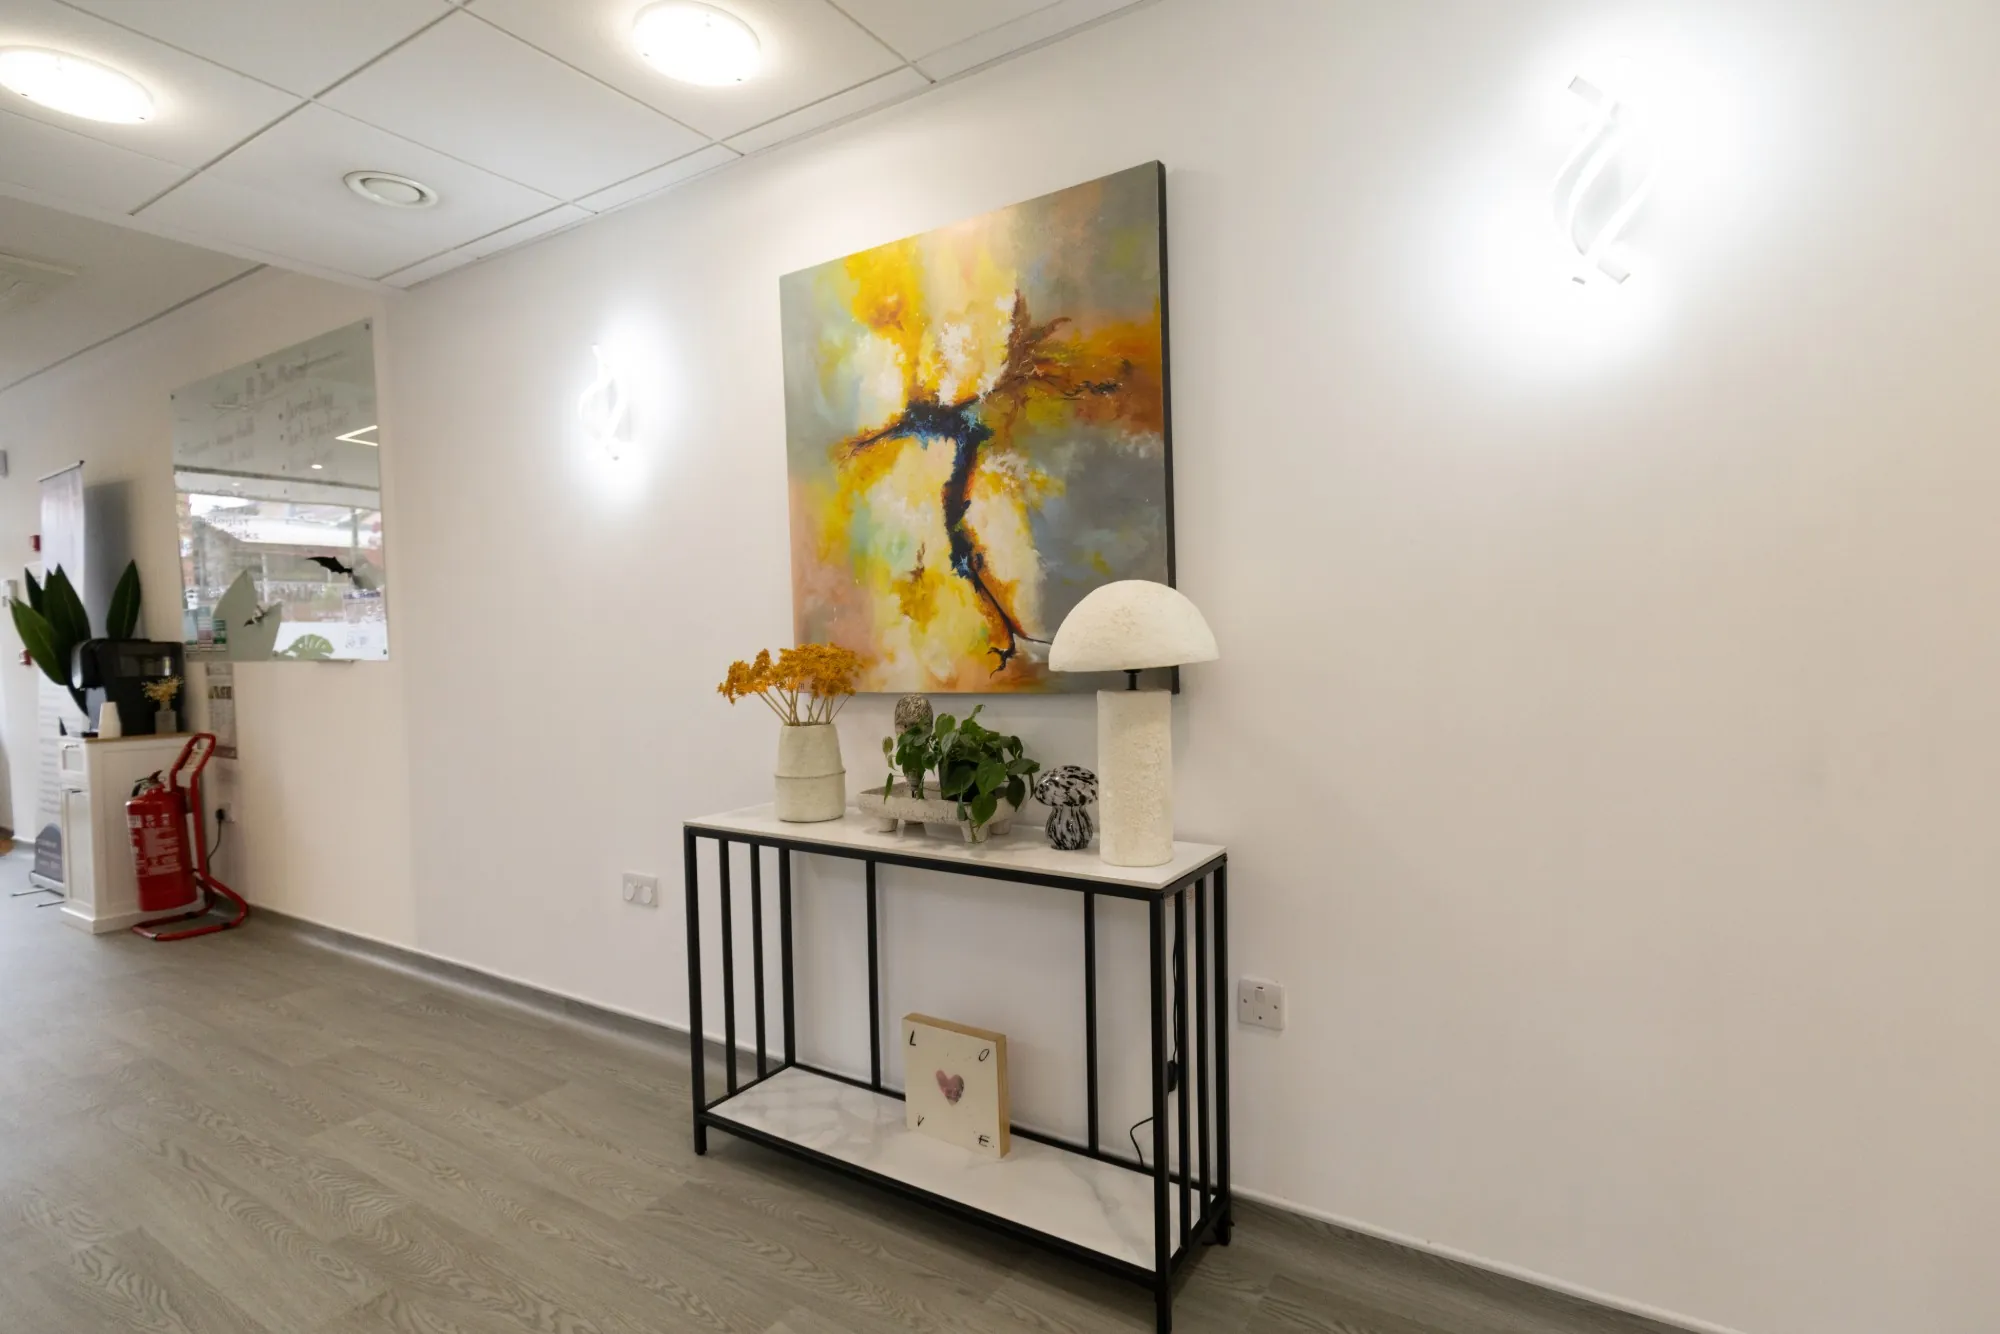
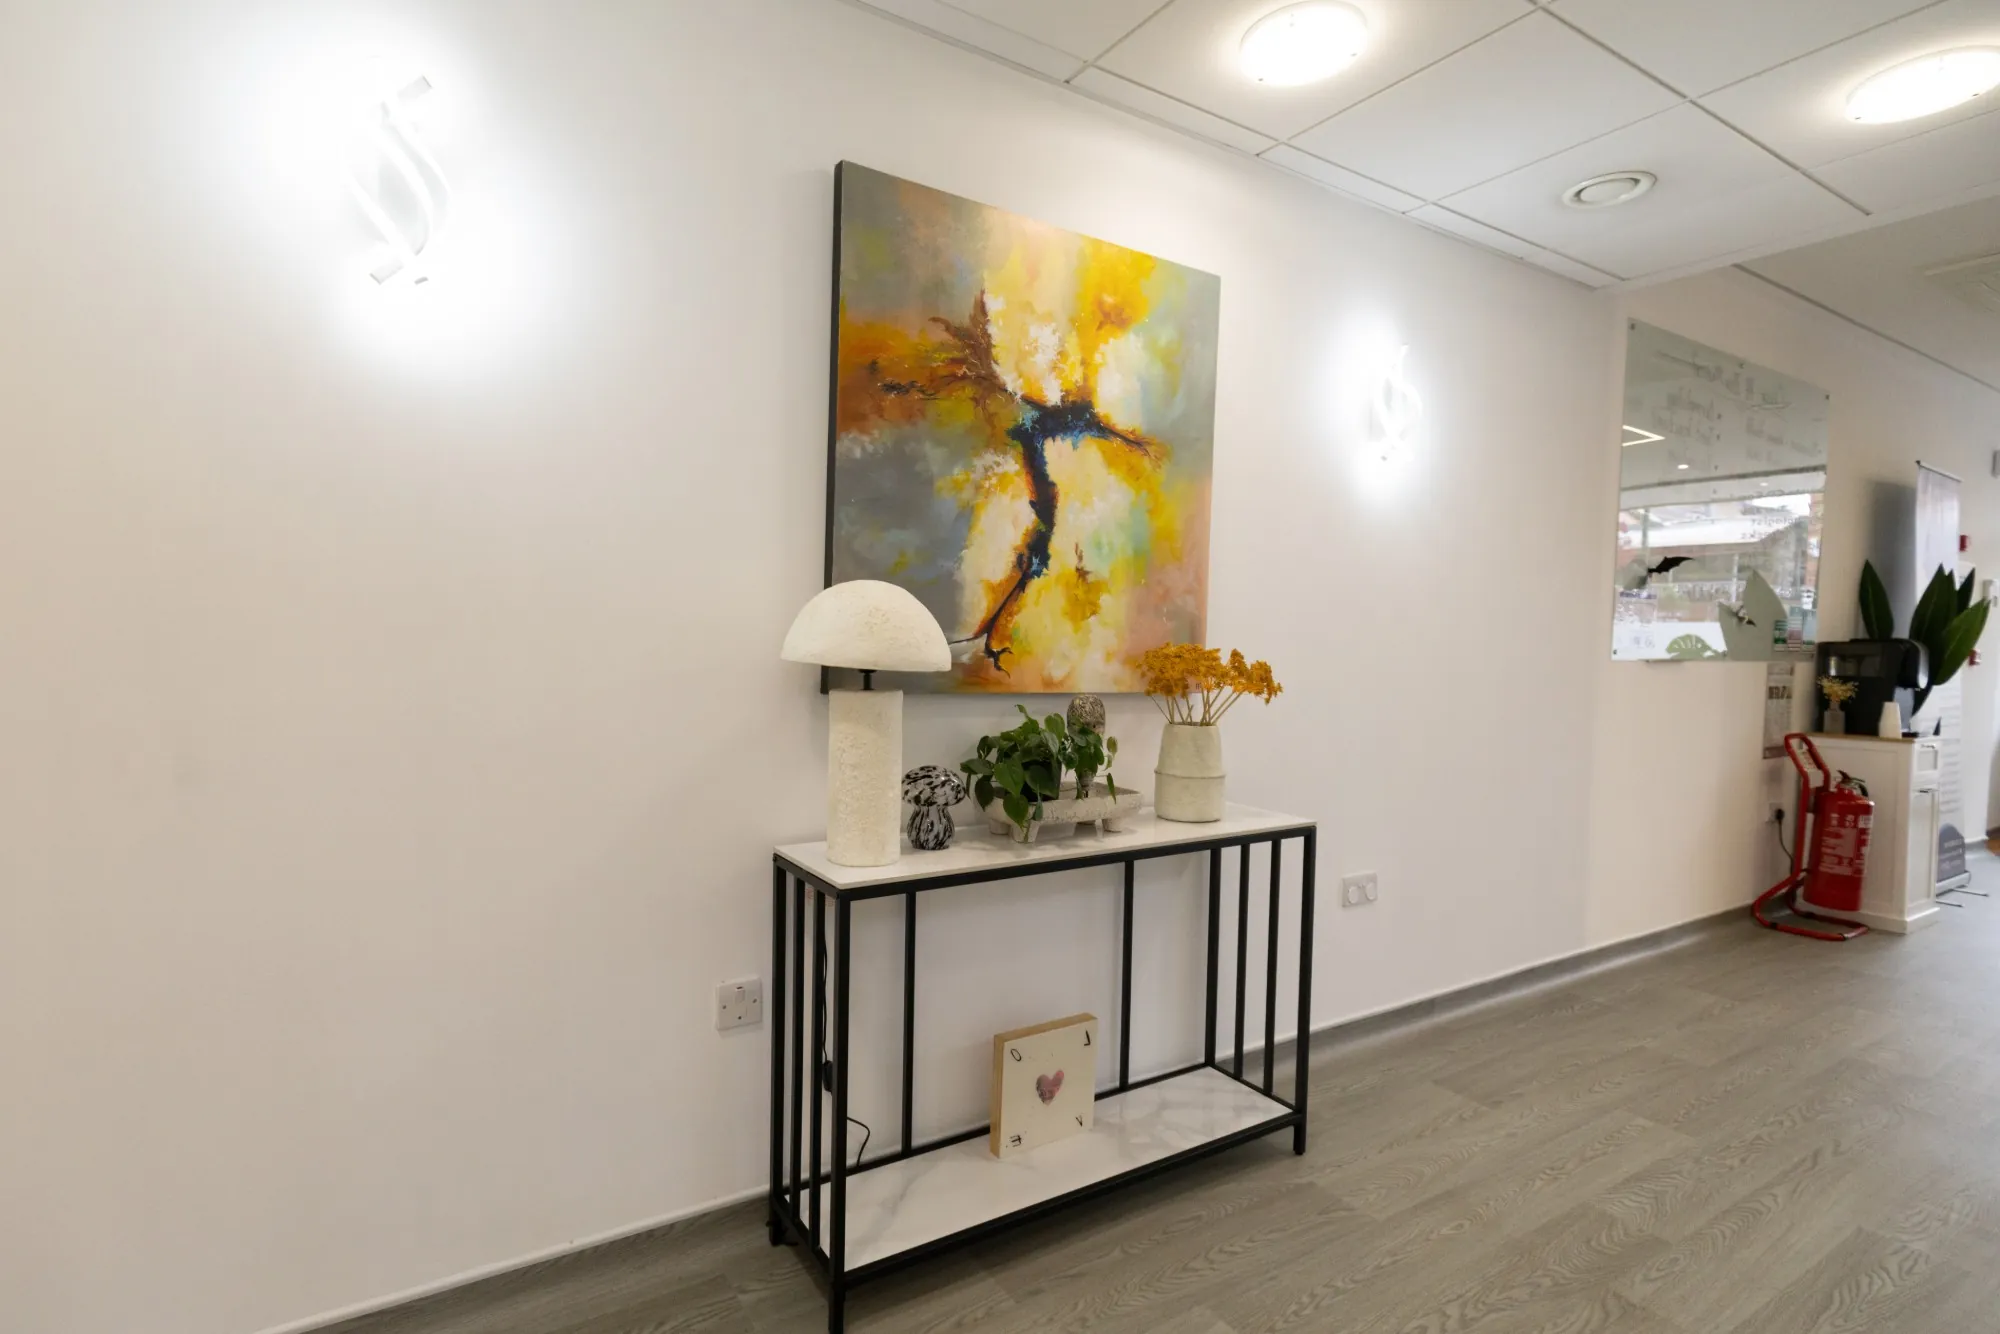
Hero slideshow: mirror the hallway photo
Claude-Session: https://claude.ai/code/session_01MQkXnTL1Arkc7JLHREEtsH

diff --git a/public/index.html b/public/index.html
@@ -157,8 +157,8 @@
         <img data-src="/assets/img/hero-shopfront.webp" alt="The Niva Medical Clinic shopfront on The Broadway, Stanmore" width="2000" height="1334" decoding="async">
       </picture>
       <picture class="hero-slide" aria-hidden="true">
-        <source media="(max-width: 767px)" data-srcset="/assets/img/hero-hallway-mobile.webp">
-        <img data-src="/assets/img/hero-hallway.webp" alt="The clinic hallway with an abstract painting above a console table" width="2000" height="1334" decoding="async">
+        <source media="(max-width: 767px)" data-srcset="/assets/img/hero-hallway-mobile.webp?v=2">
+        <img data-src="/assets/img/hero-hallway.webp?v=2" alt="The clinic hallway with an abstract painting above a console table" width="2000" height="1334" decoding="async">
       </picture>
     </div>
     <div class="hero-inner">
